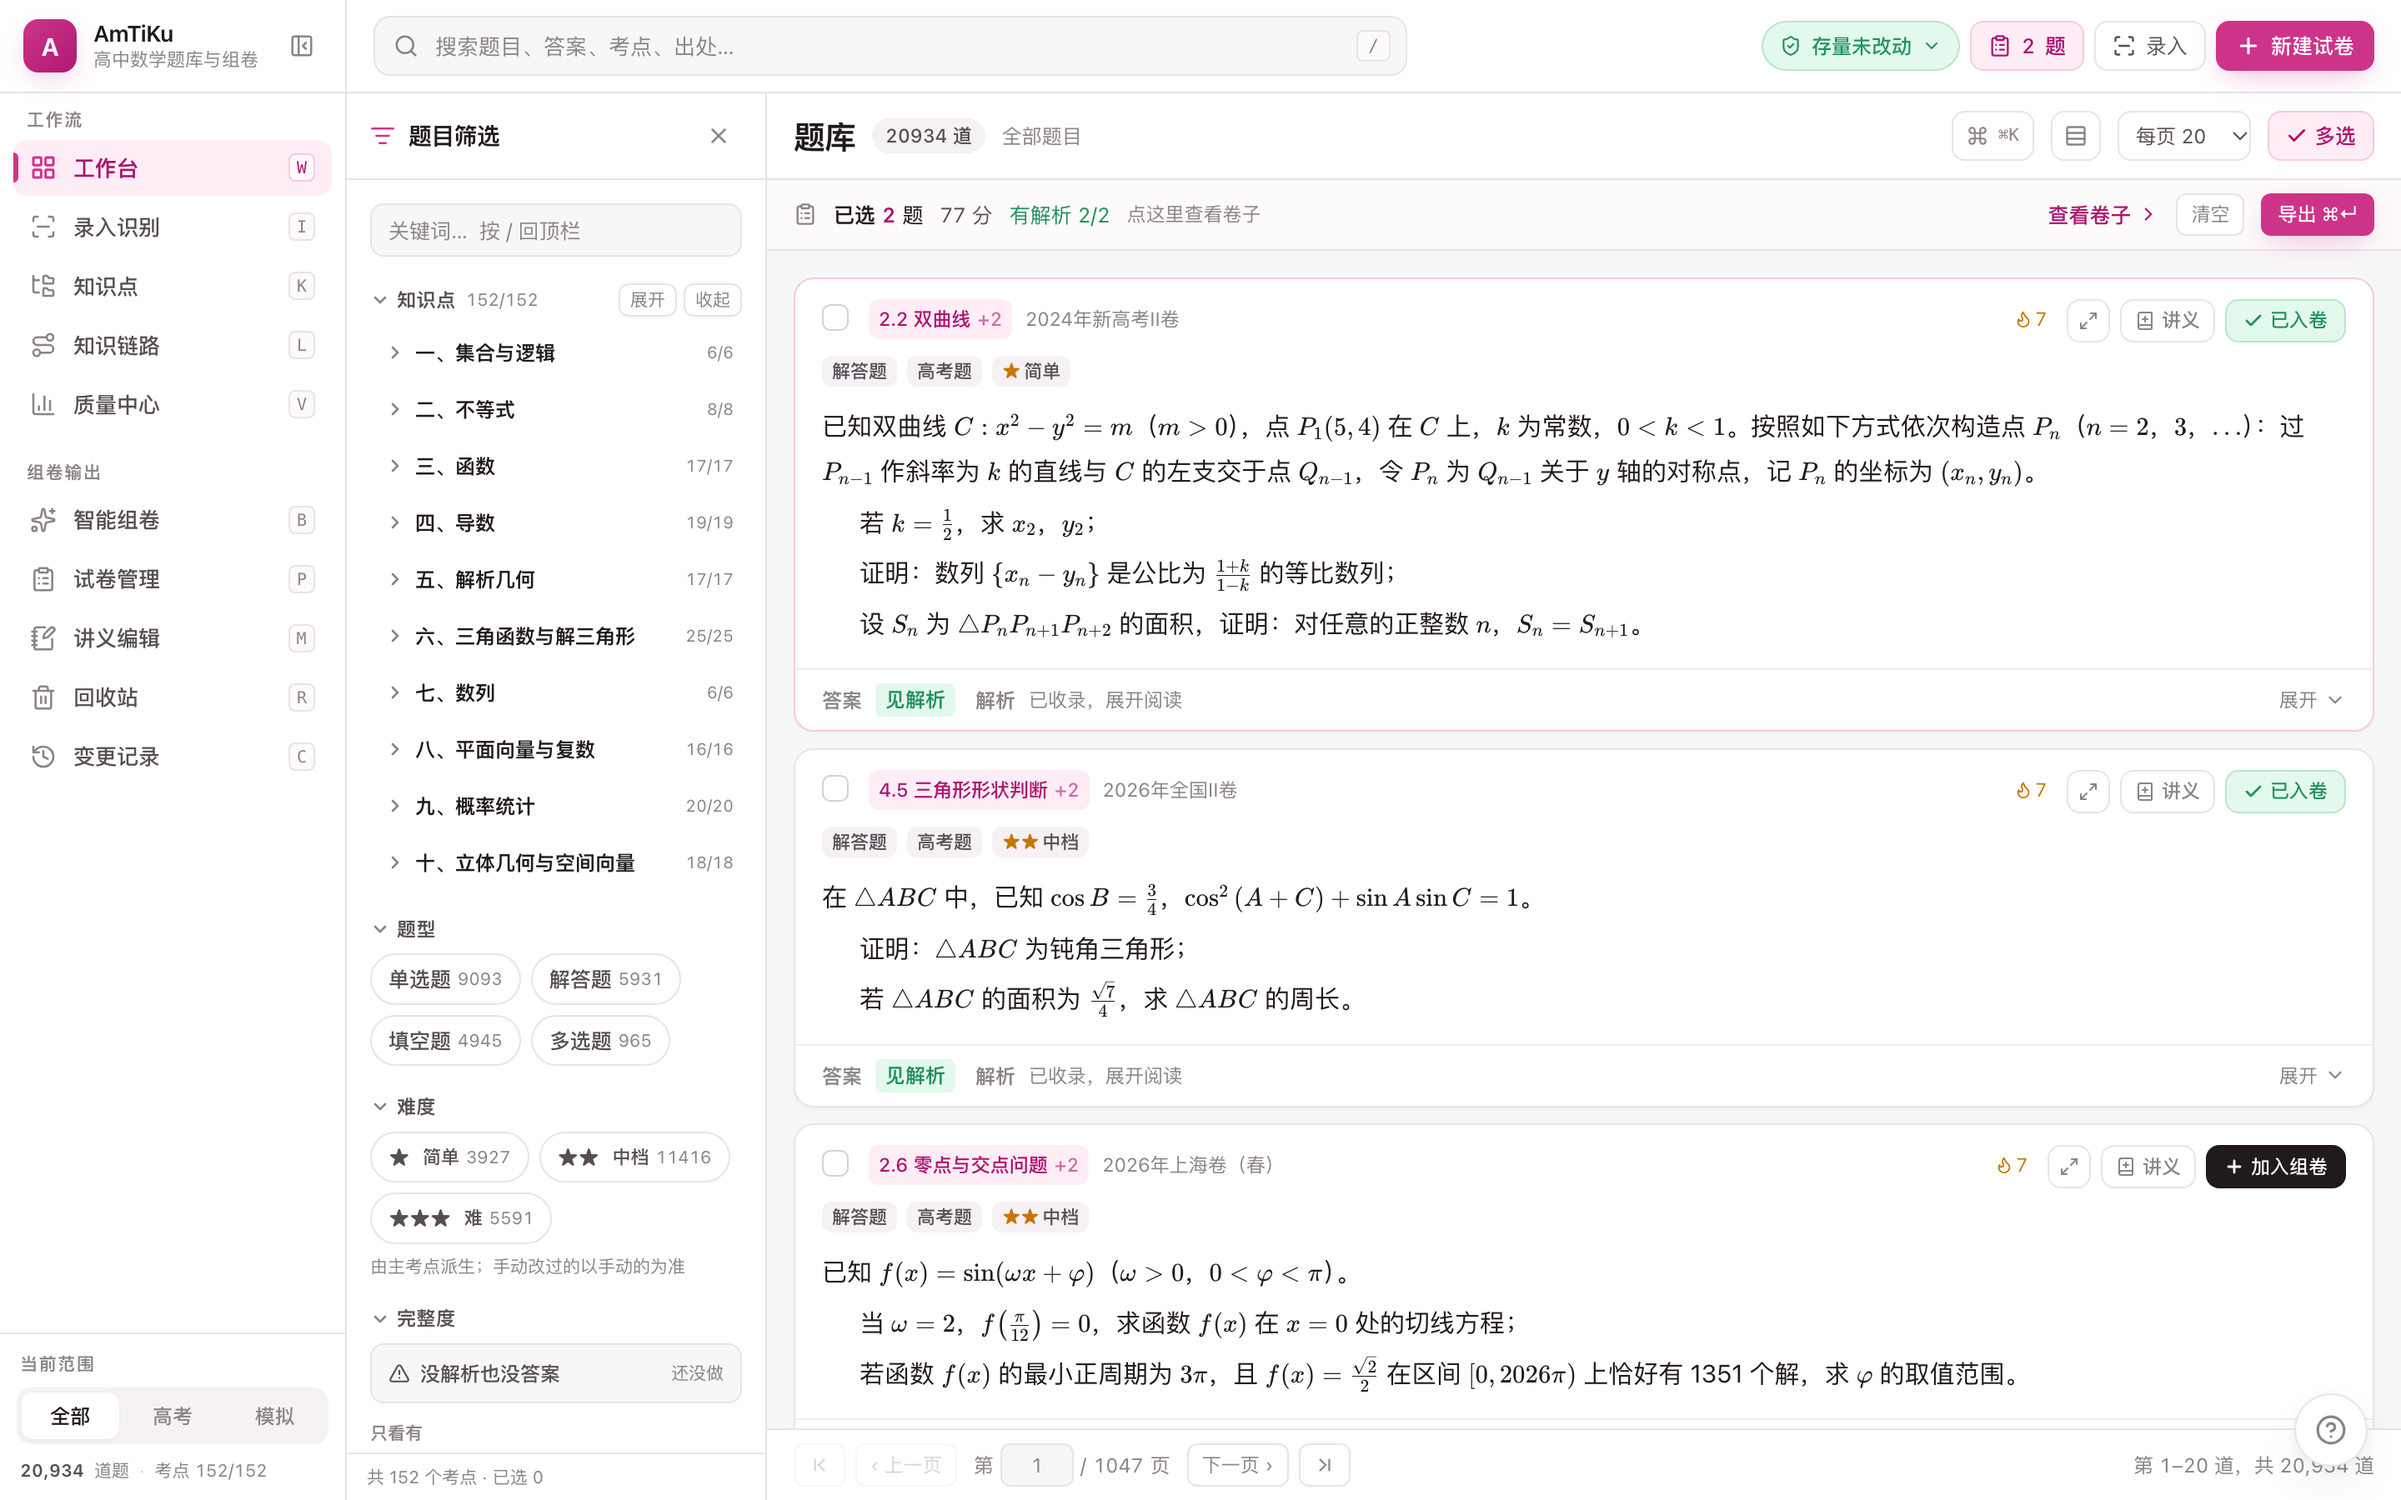
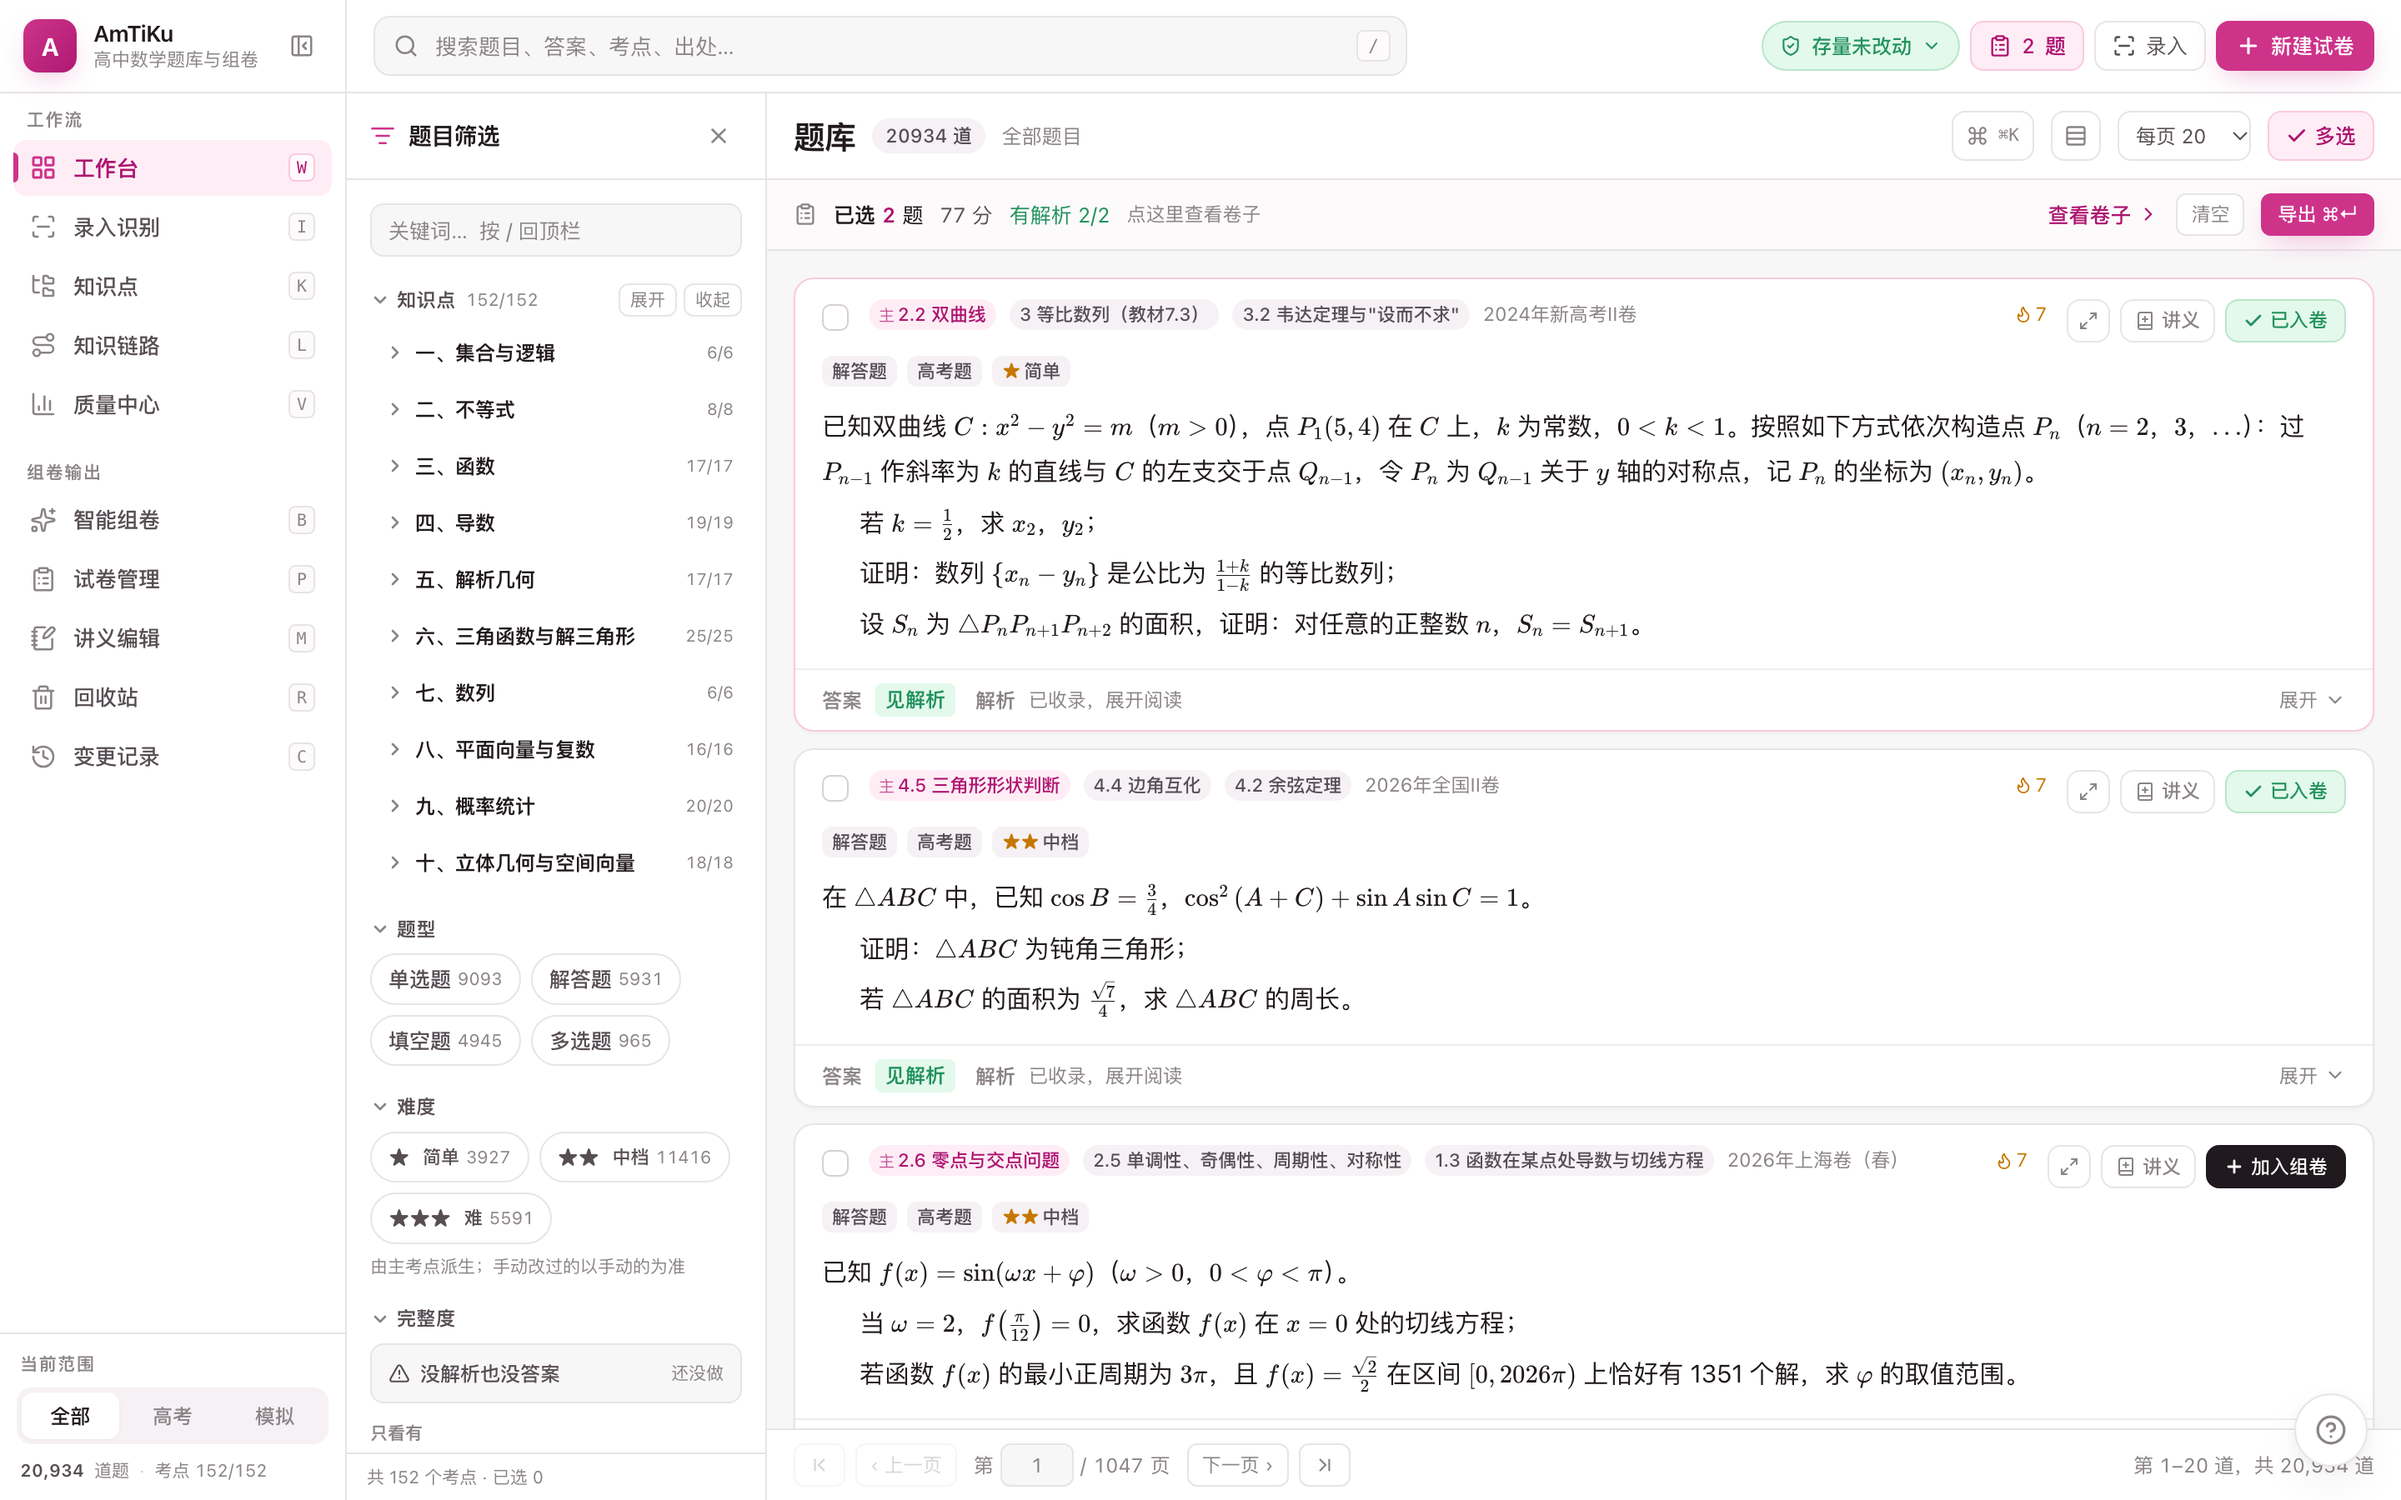
卡片把考点全部列出来，和详情抽屉一模一样
用户指着详情抽屉里那排「主 5 数列求和问题（教材7.4）／2 等差数列（教材7.2）／
1.2 导数的运算」说「一起显示在上个界面」。

上一版把多考点收成了 [主 2.2 双曲线 +2]，这一版改成列出全部，样式逐字照抄
详情抽屉那排：主考点浅粉底 + 「主」小字，其余灰底，圆角/字号/内边距一致。
同一个东西在两个界面长得一样，不用重新认一遍。

- 多考点换行由 flex-wrap 兜住；卡片宽 1600/1440/1280/1100 四档实测
  元信息行零溢出、文档无横向滚动
- 实测第 4 张卡的考点胶囊在卡片上和抽屉里完全相同（逐字比对 一致: true）
- 平均卡片高 242px（上一版 236px）——三个胶囊在常见宽度下仍是一行，
  来源和 🔥N 都在且没被截断

验证：tsc + build 全绿；accept 四层全绿；接口测试 18/18；docs/screenshots 重拍。

diff --git a/web/src/app/QuestionCard.tsx b/web/src/app/QuestionCard.tsx
@@ -142,27 +142,27 @@ export default function Card({
           </span>
         )}
         {/* 元信息行。
-            **考点是这条的主信息**——找题时扫的就是它，所以给它一个浅底胶囊、
-            放在最前面；来源退成灰字，两者之间用间距分开（不再是「·」串成一句）。
+            **考点全部列出来**，样式与详情抽屉里那排**完全一致**
+            （主考点粉色标「主」，其余灰色）——同一个东西在两个界面长得一样，
+            不用重新认一遍。多考点就换行，`flex-wrap` 兜住。
 
             顺手去掉两处冗余：
             · 「来源：」前缀——`source_label` 本身就是「2024年新高考II卷」，
               谁都看得出这是出处，前缀纯占地方；
             · **重复的年份**——实测 82% 的题 source_label 里已经含年份，
               原来会写成「2024年新高考II卷 · 2024 年」，同一个年份说两遍。 */}
-        <div className="flex min-w-0 flex-1 items-center gap-2 text-[11.5px] leading-5">
+        <div className="flex min-w-0 flex-1 flex-wrap items-center gap-x-2 gap-y-1 text-[11.5px]">
           {q.point_titles?.length ? (
-            <span
-              className="flex min-w-0 shrink items-center gap-1 rounded-md bg-brand-soft px-1.5
-                         py-[2px] font-medium text-brand-ink"
-              title={q.point_titles.join('、')}>
-              <span className="min-w-0 truncate">{q.point_titles[0]}</span>
-              {q.point_titles.length > 1 && (
-                <span className="tnum shrink-0 opacity-60">+{q.point_titles.length - 1}</span>
-              )}
-            </span>
+            q.point_titles.map((t, i) => (
+              <span key={i} title={q.point_titles.join('、')}
+                className={`shrink-0 rounded-full px-1.5 py-[1px] text-[11px] font-medium ${
+                  i === 0 ? 'bg-brand-soft text-brand-ink' : 'bg-muted text-ink-soft'}`}>
+                {i === 0 && <span className="mr-0.5 text-[9.5px] font-normal opacity-70">主</span>}
+                {t}
+              </span>
+            ))
           ) : (
-            <span className="shrink-0 rounded-md bg-warn-soft px-1.5 py-[2px] text-[11px]
+            <span className="shrink-0 rounded-full bg-warn-soft px-1.5 py-[1px] text-[11px]
                              font-medium text-warn">无考点</span>
           )}
           {src && (
@@ -172,7 +172,7 @@ export default function Card({
             <span className="shrink-0 text-ink-faint">{year} 年</span>
           )}
           {!!q.used && (
-            <span className="ml-auto flex shrink-0 items-center gap-0.5 text-warn"
+            <span className="ml-auto flex shrink-0 items-center gap-0.5 pl-2 text-warn"
               title={`已被导出 ${q.used} 次，是道常考题`}>
               <Flame size={11} />{q.used}
             </span>

diff --git a/CHANGELOG.md b/CHANGELOG.md
@@ -328,6 +328,25 @@ amti/chain.py   唯一入口：加载 / 校验 / 邻接 / 拓扑分层 / 体检
 
 ---
 
+## v1.6.15 · 卡片把考点**全部**列出来，和详情抽屉一模一样（2026-09-24）
+
+上一版把多考点收成了 `[主 2.2 双曲线 +2]`，用户指着详情抽屉里那排说
+「一起显示在上个界面」——要把 `主 …／…／…` 整排搬到卡片上。
+
+**改法**：卡片的元信息行改成**列出全部考点**，样式**逐字照抄详情抽屉**那排——
+主考点浅粉底 + 「主」小字，其余灰底；圆角、字号、内边距都一样。
+同一个东西在两个界面长得一样，不用重新认一遍。
+
+- 多考点**换行**由 `flex-wrap` 兜住；实测卡片宽 1600/1440/1280/1100 四档
+  **元信息行零溢出**、文档无横向滚动。
+- 实测第 4 张卡的考点胶囊在卡片上和抽屉里**完全相同**（逐字比对 `一致: true`）。
+- 平均卡片高 242px（上一版 236px）——多一行考点只多 6px，
+  因为三个胶囊在常见宽度下仍然是一行；来源与 🔥N 都还在，且**没有被截断**。
+
+**验证**：`tsc + build` 全绿；`amti.py accept` 四层全绿；
+`docs/screenshots` 四张图重拍。浏览器探测仍打在独立实例 8901 + 独立浏览器 9223，
+跑完 **8899 依然健在**（每次核对）。
+
 ## v1.6.14 · 卡片元信息行：考点提到主位、各归各位；顺手删掉重复的年份（2026-09-24）
 
 用户指着卡片的
